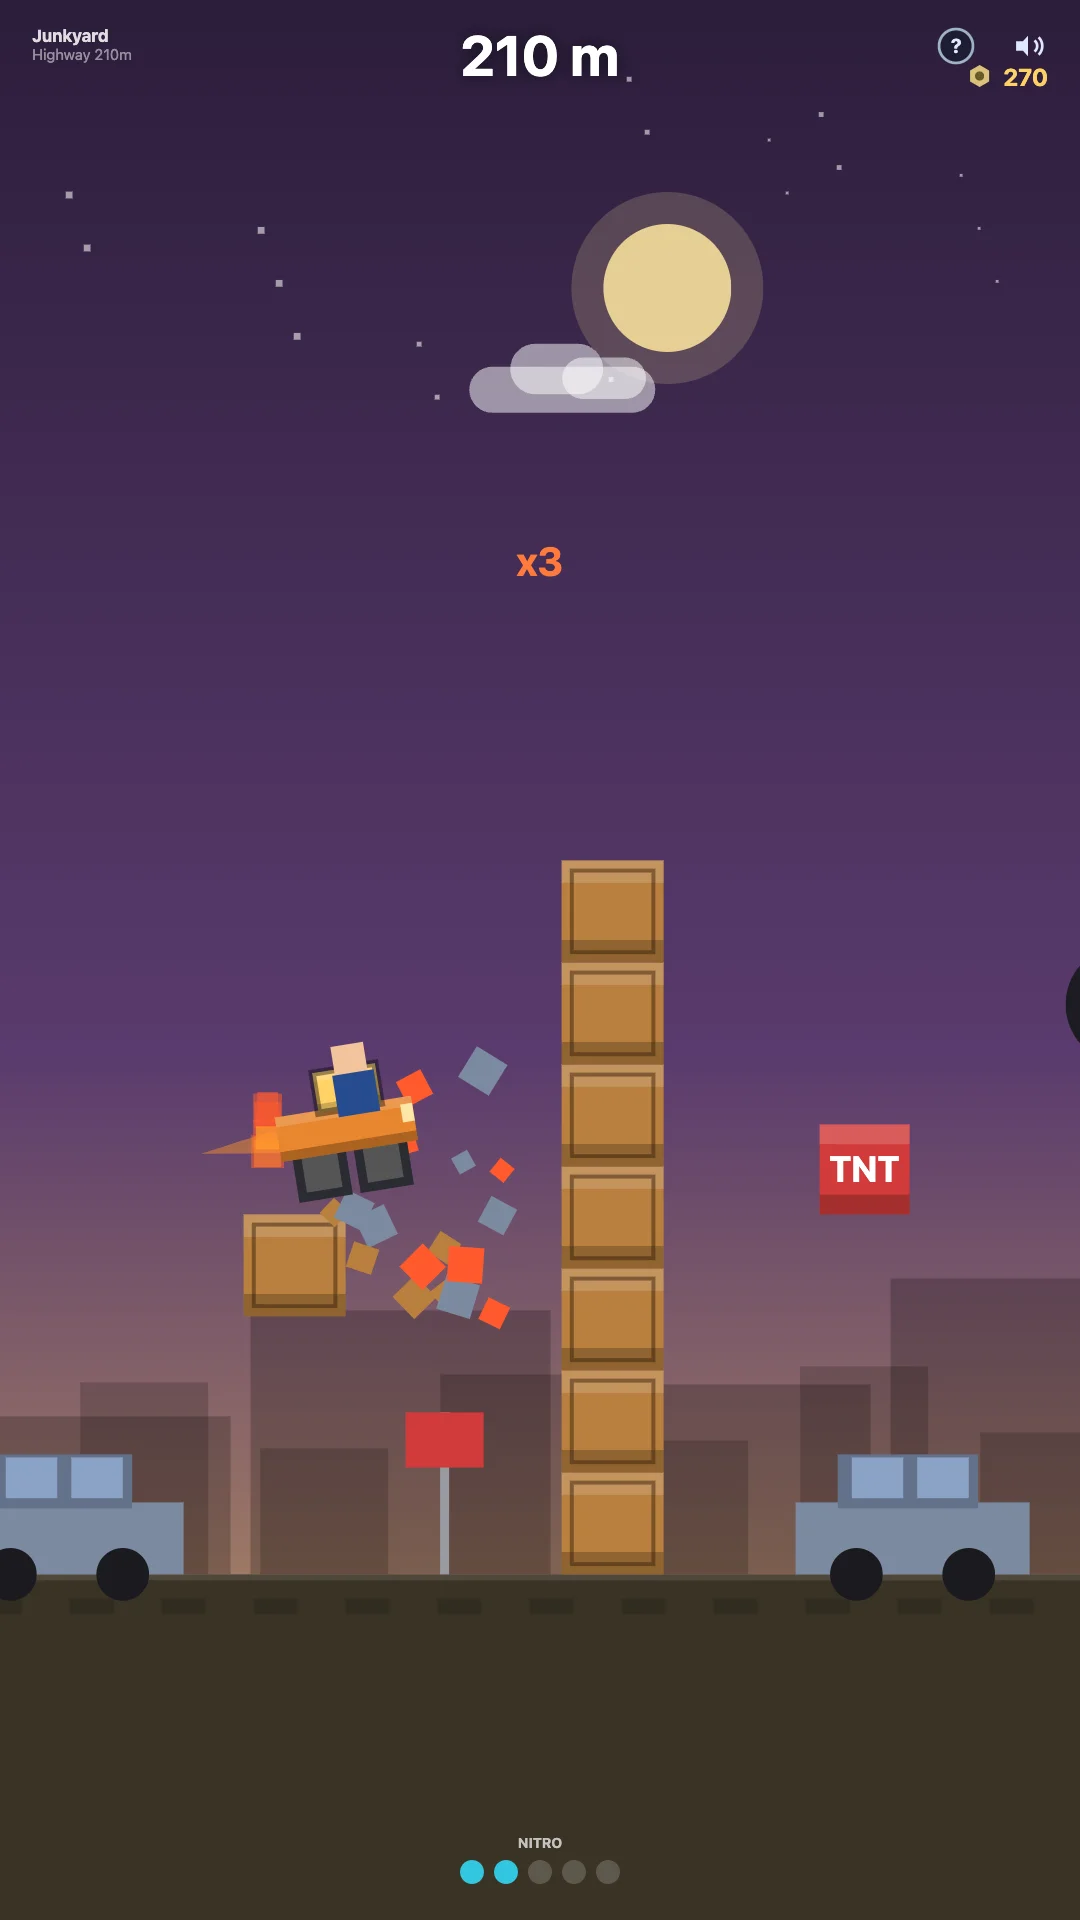
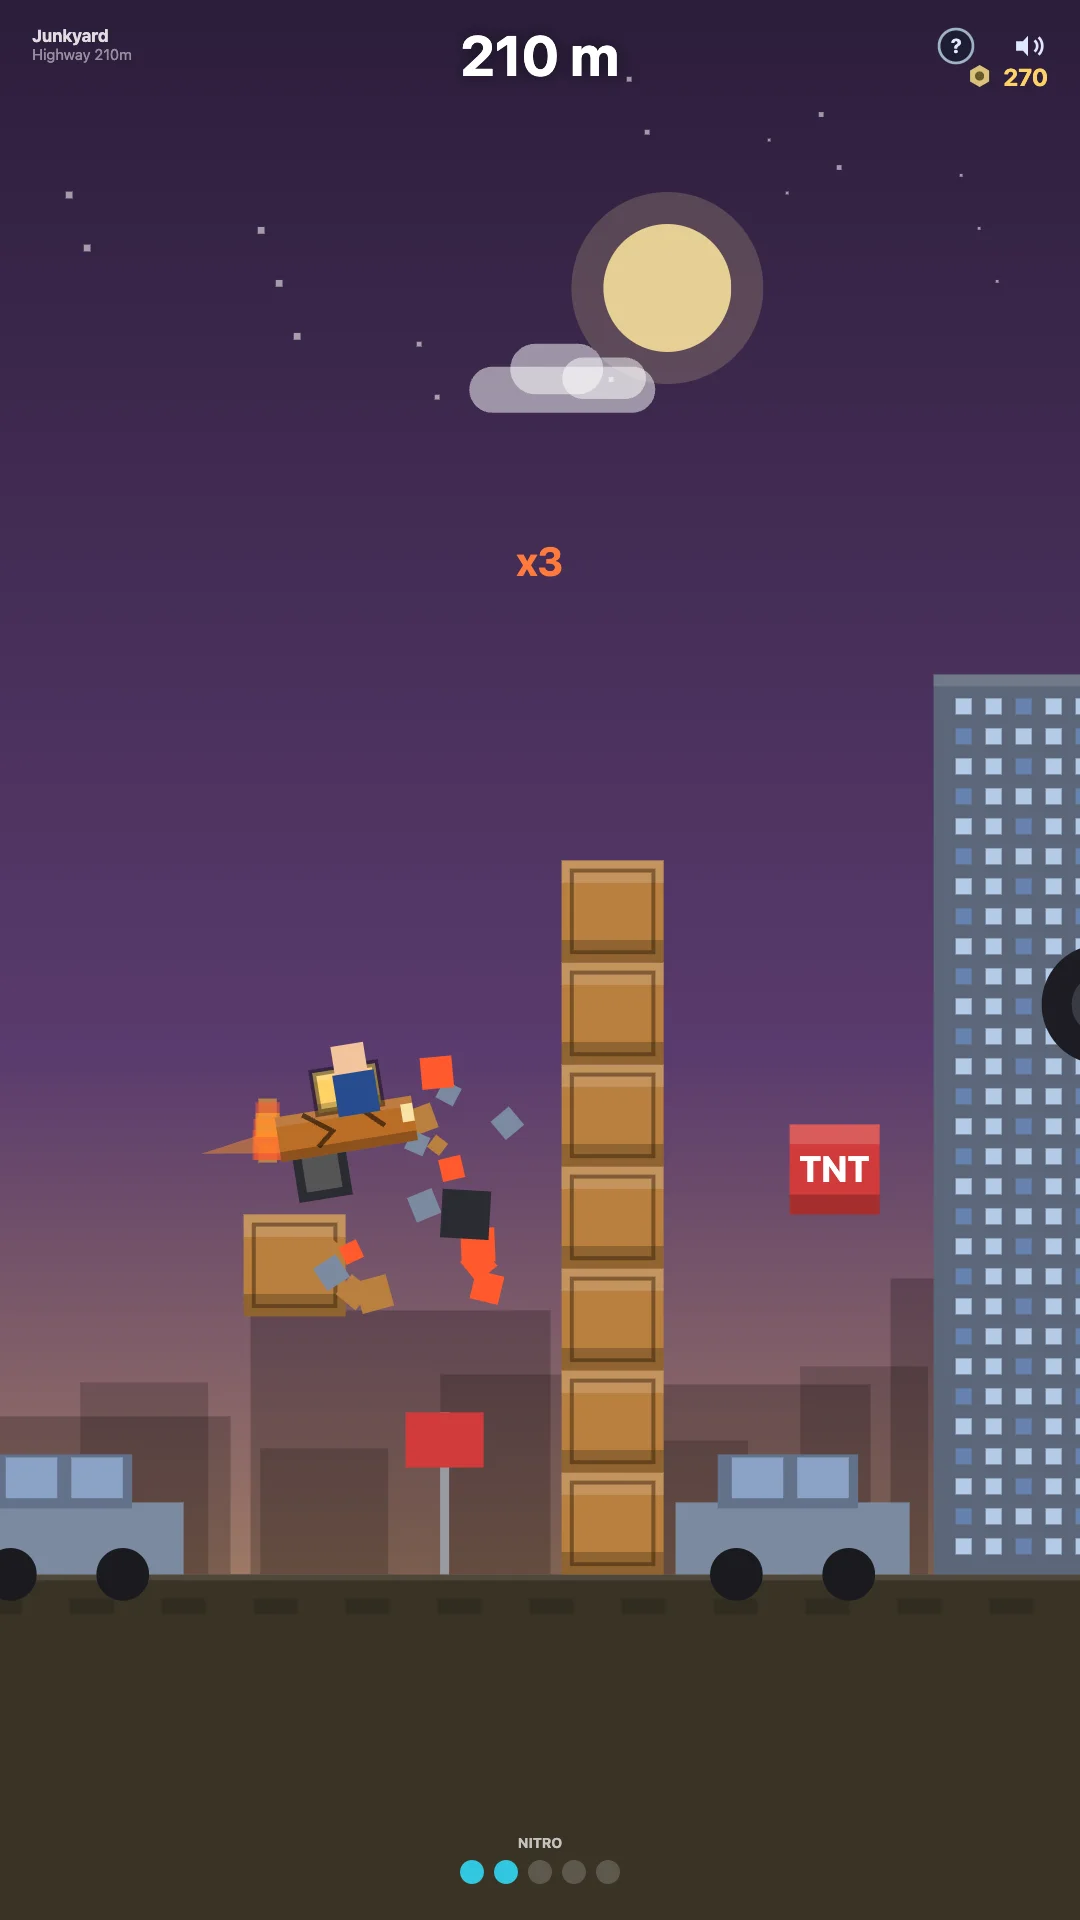
Crash Buggy: breakability + skyscraper air-obstacles + pricier upgrades
Player feedback ('make upgrades more expensive, more content, add skyscrapers
in the air that slow down') + Tim's 'add breakability to the car':
- Buggy takes damage on big hits; wheels/cabin/driver detach + ragdoll, body
  cracks. Armor soaks damage; a wrecked buggy drags to a stop sooner.
- Car props shatter into chunky cabin/body/wheel pieces + glass.
- New 'tower' air-obstacle: tall skyscrapers rising into the flight path that
  slow you hard (smash through, or nitro/ramp over). Denser in City/Sky.
- Upgrade costs raised ~35%.

Changed region(s): [[0.6111, 0.3438, 1.0, 0.8438], [0.2139, 0.5312, 0.4889, 0.6875]]

diff --git a/games/crash_buggy/index.html b/games/crash_buggy/index.html
@@ -31,7 +31,7 @@ var STRINGS = {
     newBest: 'NEW BEST!', daily: 'DAILY', dailyReady: 'FREE SCRAP', dailyDone: 'come back tomorrow',
     locked: 'LOCKED', unlockIn: 'unlock at', equipped: 'EQUIPPED', equip: 'EQUIP', maxed: 'MAX',
     holdRev: 'Hold to rev, release to LAUNCH', tapNitro: 'Tap to NITRO-boost!',
-    smashAll: 'Smash everything for scrap!', nitro: 'NITRO', boost: 'BOOST!',
+    smashAll: 'Smash everything for scrap!', nitro: 'NITRO', boost: 'BOOST!', wrecked: 'WRECKED!',
     newRide: 'NEW RIDE UNLOCKED!',
     up_engine: 'Engine', up_nitro: 'Nitro', up_armor: 'Armor', up_wheels: 'Wheels', up_ramp: 'Ramp',
     veh_buggy: 'Junk Buggy', veh_muscle: 'Muscle Car', veh_truck: 'Monster Truck', veh_sled: 'Rocket Sled',
@@ -52,7 +52,7 @@ var STRINGS = {
     newBest: 'НОВЫЙ РЕКОРД!', daily: 'БОНУС', dailyReady: 'МЕТАЛЛ', dailyDone: 'заходи завтра',
     locked: 'ЗАКРЫТО', unlockIn: 'откроется на', equipped: 'ВЫБРАНО', equip: 'ВЫБРАТЬ', maxed: 'МАКС',
     holdRev: 'Держи для разгона, отпусти для ЗАПУСКА', tapNitro: 'Тапай для НИТРО!',
-    smashAll: 'Круши всё ради металла!', nitro: 'НИТРО', boost: 'БУСТ!',
+    smashAll: 'Круши всё ради металла!', nitro: 'НИТРО', boost: 'БУСТ!', wrecked: 'РАЗБИТ!',
     newRide: 'НОВАЯ ТАЧКА!',
     up_engine: 'Двигатель', up_nitro: 'Нитро', up_armor: 'Броня', up_wheels: 'Колёса', up_ramp: 'Трамплин',
     veh_buggy: 'Багги', veh_muscle: 'Маслкар', veh_truck: 'Монстр-Трак', veh_sled: 'Ракета',
@@ -112,11 +112,11 @@ function saveMeta() { try { localStorage.setItem('crash_buggy_meta_v1', JSON.str
 
 // ── UPGRADE + VEHICLE CONFIG ──────────────────────────────────────────────
 var UPGRADES = [
-  { key: 'engine', max: 8, base: 70,  growth: 1.5  },
-  { key: 'nitro',  max: 5, base: 100, growth: 1.62 },
-  { key: 'armor',  max: 6, base: 85,  growth: 1.55 },
-  { key: 'wheels', max: 6, base: 78,  growth: 1.5  },
-  { key: 'ramp',   max: 5, base: 115, growth: 1.6  },
+  { key: 'engine', max: 8, base: 95,  growth: 1.55 },
+  { key: 'nitro',  max: 5, base: 135, growth: 1.66 },
+  { key: 'armor',  max: 6, base: 115, growth: 1.6  },
+  { key: 'wheels', max: 6, base: 105, growth: 1.55 },
+  { key: 'ramp',   max: 5, base: 150, growth: 1.62 },
 ];
 function upCost(u) { return Math.floor(u.base * Math.pow(u.growth, meta.up[u.key])); }
 function upMaxed(u) { return meta.up[u.key] >= u.max; }
@@ -142,7 +142,8 @@ function statAngle() { return Math.min(1.18, LAUNCH_ANGLE + meta.up.ramp * 0.02)
 // ── GAME STATE ────────────────────────────────────────────────────────────
 var gs = 'MENU';             // MENU | PLAYING | GAMEOVER | GARAGE
 var phase = 'CHARGE';        // within PLAYING: CHARGE | FLIGHT | REST
-var buggy = { x: 0, y: 0, vx: 0, vy: 0, rot: 0, vr: 0, onGround: false, restT: 0 };
+var buggy = { x: 0, y: 0, vx: 0, vy: 0, rot: 0, vr: 0, onGround: false, restT: 0,
+  dmg: 0, parts: { wheelF: true, wheelR: true, cabin: true, driver: true } };
 var startX = 0, dist = 0, runScrap = 0, smashes = 0, combo = 0, comboT = 0;
 var nitro = 0, zoneIdx = 0, prevZoneIdx = 0;
 var charge = 0, chargeDir = 1, held = false;
@@ -178,6 +179,7 @@ function hit(b, x, y) { return x >= b.x && x <= b.x + b.w && y >= b.y && y <= b.
 function resetRun() {
   startX = 200; buggy.x = startX; buggy.y = -BUGGY_H / 2; buggy.vx = 0; buggy.vy = 0;
   buggy.rot = 0; buggy.vr = 0; buggy.onGround = true; buggy.restT = 0;
+  buggy.dmg = 0; buggy.parts = { wheelF: true, wheelR: true, cabin: true, driver: true };
   dist = 0; runScrap = 0; smashes = 0; combo = 0; comboT = 0;
   nitro = statNitroMax(); zoneIdx = 0; prevZoneIdx = 0;
   charge = 0; chargeDir = 1; held = false; bannerT = 0; launchFlash = 0;
@@ -258,6 +260,13 @@ function generateAhead() {
   if (props.length > 240) props = props.filter(function (p) { return p.x + (p.w || 40) > cullX; });
 }
 function spawnCluster(x, z) {
+  // AIR OBSTACLE: a tall skyscraper rising into the flight path (Highway onward,
+  // denser in City/Sky). Hitting it slows you hard; smash through or clear the top.
+  if (z >= 1 && Math.random() < 0.13 + z * 0.03) {
+    var th = R(170, 200 + z * 55);
+    pushProp('tower', x, -th, R(58, 84), th, z >= 3 ? 3 : 2, 12 + z * 2);
+    return;
+  }
   var roll = Math.random();
   if (roll < 0.10) { pushProp('boost', x, -14, 54, 14, 0, 4); return; }
   if (roll < 0.22) { pushProp('tnt', x, -30, 30, 30, 1, 9); return; }
@@ -295,6 +304,41 @@ function spawnPuff(x, y, n, col) {
   for (var i = 0; i < n; i++) debris.push({ x: x, y: y, vx: R(-120, -20), vy: R(-90, 30),
     size: R(6, 13), color: col, rot: 0, vr: 0, life: 0.6, flame: true });
 }
+// bigger, longer-lived chunk — a detached vehicle part or car-wreck piece
+function spawnPart(wx, wy, sz, color) {
+  debris.push({ x: wx, y: wy, vx: buggy.vx * 0.35 + R(-140, 160), vy: buggy.vy * 0.25 + R(-300, -60),
+    size: sz, color: color, rot: R(0, 6.28), vr: R(-13, 13), life: 2.4 });
+  if (debris.length > 300) debris.splice(0, debris.length - 300);
+}
+function spawnCarWreck(p) {
+  var cxp = p.x + p.w / 2;
+  spawnPart(cxp - p.w * 0.18, p.y, p.w * 0.5, '#62718a');              // cabin chunk
+  spawnPart(cxp + p.w * 0.18, p.y + p.h * 0.4, p.w * 0.5, '#7b8aa0');  // body chunk
+  spawnPart(cxp - p.w * 0.26, p.y + p.h * 0.8, p.h * 0.42, '#1a1a20'); // wheel
+  spawnPart(cxp + p.w * 0.26, p.y + p.h * 0.8, p.h * 0.42, '#1a1a20'); // wheel
+  spawnDebris(p.x, p.y, p.w, p.h, '#7b8aa0', 8);
+  spawnDebris(p.x + p.w * 0.2, p.y, p.w * 0.4, p.h * 0.4, 'rgba(190,215,255,0.7)', 5); // glass
+}
+// ── BUGGY DAMAGE / BREAKABILITY ────────────────────────────────────────────
+// Big impacts crack the buggy and pop parts off (wheels -> cabin -> driver eject).
+// Armor cushions it; a heavily-damaged buggy rolls to a stop sooner. Cosmetic
+// spectacle that never ends a run early (the chassis keeps sliding).
+function ejectPart(offX, offY, sz, color) { spawnPart(buggy.x + offX, buggy.y + offY, sz, color); }
+function damageBuggy(amount) {
+  amount = amount / (1 + statArmor() * 0.4);          // armor soaks damage
+  buggy.dmg = Math.min(1.3, buggy.dmg + amount);
+  var v = curVeh();
+  if (buggy.parts.wheelF && buggy.dmg > 0.32) { buggy.parts.wheelF = false; ejectPart(-BUGGY_W * 0.42, BUGGY_H * 0.2, WHEEL_R * 1.8, v.wheel); sfxRL('hit', 80); }
+  if (buggy.parts.wheelR && buggy.dmg > 0.58) { buggy.parts.wheelR = false; ejectPart(BUGGY_W * 0.42, BUGGY_H * 0.2, WHEEL_R * 1.8, v.wheel); sfxRL('hit', 80); }
+  if (buggy.parts.cabin && buggy.dmg > 0.74) { buggy.parts.cabin = false; ejectPart(-BUGGY_W * 0.05, -BUGGY_H * 0.5, BUGGY_W * 0.42, v.accent); GF.setShake(0.4); sfxRL('hurt', 90); }
+  if (buggy.parts.driver && buggy.dmg > 0.95) {
+    buggy.parts.driver = false;
+    ejectPart(0, -BUGGY_H * 0.9, 11, '#f2c39b');      // head
+    ejectPart(0, -BUGGY_H * 0.6, 14, '#274b8f');      // torso
+    GF.setShake(0.5); sfxRL('hurt', 90);
+    GF.spawnFloat(sx(buggy.x), sy(buggy.y) - 30 * GF.S, GF.t('wrecked'), '#ff7a3c');
+  }
+}
 
 // ── SMASH HANDLING ────────────────────────────────────────────────────────
 function comboMult() { return Math.min(9, 1 + Math.floor(combo / 2)); }
@@ -313,23 +357,33 @@ function handleSmash(p) {
   var mult = comboMult();
   var gain = Math.round(p.scrap * (1 + (mult - 1) * 0.35));
   runScrap += gain;
-  var armor = statArmor(), col, n = 9;
+  var armor = statArmor(), col, n = 9, skipDebris = false;
   if (p.type === 'crate') { col = '#b9803f'; buggy.vx *= 0.99; }
   else if (p.type === 'barrel') { col = '#5a7d3a'; buggy.vx += 50; GF.setShake(0.3); sfxRL('hit', 50); }
   else if (p.type === 'tire') { col = '#1c1c22'; buggy.vy -= 300; buggy.onGround = false; buggy.restT = 0; sfxRL('merge', 50); }
   else if (p.type === 'cone') { col = '#ff8a3c'; n = 6; }
   else if (p.type === 'sign') { col = '#d0d6df'; n = 6; }
   else if (p.type === 'car') {
-    col = '#7b8aa0'; n = 16;
-    if (armor < p.mass) { buggy.vx *= 0.62; buggy.vr += R(-6, 6); GF.setShake(0.6); sfxRL('hurt', 60); }
-    else { buggy.vx *= 0.92; GF.setShake(0.4); sfxRL('hit', 60); }
+    col = '#7b8aa0'; skipDebris = true; spawnCarWreck(p);   // breaks into chunky pieces
+    if (armor < p.mass) { buggy.vx *= 0.62; buggy.vr += R(-6, 6); GF.setShake(0.6); sfxRL('hurt', 60); damageBuggy(0.42); }
+    else { buggy.vx *= 0.9; GF.setShake(0.4); sfxRL('hit', 60); damageBuggy(0.16); }
+  } else if (p.type === 'tower') {
+    // AIR OBSTACLE: a tall skyscraper that SLOWS you hard (smash through it, or
+    // nitro / a higher ramp to clear its top). Showers concrete + glass.
+    col = '#9aa7bd'; skipDebris = true;
+    buggy.vx *= (armor < p.mass ? 0.5 : 0.74); buggy.vr += R(-5, 5); buggy.restT = 0;
+    GF.setShake(0.7); GF.sfx('hit'); sfxRL('hurt', 70);
+    damageBuggy(armor < p.mass ? 0.34 : 0.14);
+    spawnDebris(p.x, p.y, p.w, Math.min(p.h, 200), '#9aa7bd', 16);
+    spawnDebris(p.x + 4, p.y + 10, p.w - 8, Math.min(p.h, 170), 'rgba(150,200,255,0.6)', 11);
   } else if (p.type === 'tnt') {
     col = '#ff5a2e'; n = 14;
     buggy.vx += 240; buggy.vy -= 200; buggy.onGround = false; buggy.restT = 0;
     GF.setShake(0.85); GF.sfx('hit'); GF.sfx('reward');
     GF.spawnParticles(sx(p.x + p.w / 2), sy(p.y + p.h / 2), '#ffb02e', 22);
+    damageBuggy(0.28);
   }
-  spawnDebris(p.x, p.y, p.w, p.h, col, n);
+  if (!skipDebris) spawnDebris(p.x, p.y, p.w, p.h, col, n);
   if (p.type !== 'cone' && p.type !== 'sign') sfxRL('hit', 45); else sfxRL('tap', 40);
   GF.spawnFloat(sx(p.x + p.w / 2), sy(p.y) - 8 * GF.S, '+' + gain, mult >= 3 ? '#ffd166' : '#fff');
 }
@@ -383,15 +437,18 @@ function update(dt) {
   if (bottom >= 0) {
     buggy.y = -BUGGY_H / 2;
     if (buggy.vy > 160) {
-      buggy.vy = -buggy.vy * statBounce();
+      var impact = buggy.vy;
+      buggy.vy = -impact * statBounce();
       buggy.vx *= GROUND_FRICTION;
       buggy.onGround = false;
-      GF.setShake(Math.min(0.5, buggy.vy * -0.0009 + 0.15));
+      GF.setShake(Math.min(0.6, impact * 0.0009 + 0.15));
       sfxRL('hit', 90);
       spawnPuff(buggy.x - 6, 4, 7, '#caa46a');
+      if (impact > 520) damageBuggy(Math.min(0.3, (impact - 520) * 0.0006));   // hard slam cracks the frame
     } else {
       buggy.vy = 0; buggy.onGround = true;
-      buggy.vx *= Math.pow(statRollKeep(), dt * 60);
+      // a wrecked buggy loses grip and drags to a stop sooner (Armor keeps you rolling)
+      buggy.vx *= Math.pow(Math.max(0.55, statRollKeep() - buggy.dmg * 0.06), dt * 60);
     }
   } else { buggy.onGround = false; }
 
@@ -554,6 +611,22 @@ function drawProps(c) {
     else if (p.type === 'car') { drawCarProp(c, X, Y, Wd, Hd); }
     else if (p.type === 'tnt') { voxBox(c, X, Y, Wd, Hd, '#d23b3b'); c.fillStyle = '#fff'; c.font = 'bold ' + (Hd * 0.4) + 'px Inter, system-ui, sans-serif'; c.textAlign = 'center'; c.textBaseline = 'middle'; c.fillText(GF.t('tntLabel'), X + Wd / 2, Y + Hd / 2 + 1); c.textBaseline = 'alphabetic'; }
     else if (p.type === 'boost') { var by = sy(-14); c.fillStyle = '#7CFC9A'; c.fillRect(X, by, Wd, 14 * scl); c.fillStyle = '#1d6b3a'; for (var a = 0; a < 3; a++) { c.beginPath(); c.moveTo(X + Wd * (0.2 + a * 0.28), by + 12 * scl); c.lineTo(X + Wd * (0.32 + a * 0.28), by + 2 * scl); c.lineTo(X + Wd * (0.44 + a * 0.28), by + 12 * scl); c.closePath(); c.fill(); } }
+    else if (p.type === 'tower') { drawTowerProp(c, X, Y, Wd, Hd, p); }
+  }
+}
+function drawTowerProp(c, X, Y, Wd, Hd, p) {
+  var S = GF.S;
+  c.fillStyle = '#5b6678'; c.fillRect(X, Y, Wd, Hd);
+  c.fillStyle = 'rgba(255,255,255,0.13)'; c.fillRect(X, Y, Wd, Math.max(2, 6 * S));          // roof cap
+  c.fillStyle = 'rgba(0,0,0,0.25)'; c.fillRect(X + Wd - 6 * S, Y, 6 * S, Hd);                 // right-edge shade
+  var ww = Math.max(4, 8 * S), wgap = Math.max(4, 7 * S);
+  var cols = Math.max(2, Math.floor((Wd - wgap) / (ww + wgap)));
+  var x0 = X + (Wd - (cols * (ww + wgap) - wgap)) / 2, base = (p.x | 0);
+  for (var wy = Y + 12 * S; wy < Y + Hd - ww; wy += ww + wgap) {
+    for (var wc = 0; wc < cols; wc++) {
+      c.fillStyle = ((((wy | 0) * 3 + wc * 7 + base) % 4) === 0) ? 'rgba(120,170,255,0.4)' : 'rgba(200,225,255,0.82)';
+      c.fillRect(x0 + wc * (ww + wgap), wy, ww, ww);
+    }
   }
 }
 function drawCarProp(c, X, Y, Wd, Hd) {
@@ -580,16 +653,32 @@ function drawBuggy(c) {
   c.save(); c.translate(X, Y); c.rotate(buggy.rot);
   var u = scl, w = BUGGY_W * u, h = BUGGY_H * u;
   if (launchFlash > 0) { c.fillStyle = 'rgba(255,150,40,' + (launchFlash) + ')'; c.beginPath(); c.moveTo(-w / 2, -2 * u); c.lineTo(-w / 2 - 26 * u, 2 * u); c.lineTo(-w / 2, 6 * u); c.closePath(); c.fill(); }
+  // wheels — each can be knocked off
   c.fillStyle = v.wheel;
-  c.fillRect(-w * 0.42, h * 0.18, WHEEL_R * 2 * u, WHEEL_R * 2 * u);
-  c.fillRect(w * 0.42 - WHEEL_R * 2 * u, h * 0.18, WHEEL_R * 2 * u, WHEEL_R * 2 * u);
-  c.fillStyle = '#555'; c.fillRect(-w * 0.42 + 3 * u, h * 0.18 + 3 * u, (WHEEL_R * 2 - 6) * u, (WHEEL_R * 2 - 6) * u); c.fillRect(w * 0.42 - (WHEEL_R * 2 - 3) * u, h * 0.18 + 3 * u, (WHEEL_R * 2 - 6) * u, (WHEEL_R * 2 - 6) * u);
+  if (buggy.parts.wheelR) { c.fillRect(-w * 0.42, h * 0.18, WHEEL_R * 2 * u, WHEEL_R * 2 * u); c.fillStyle = '#555'; c.fillRect(-w * 0.42 + 3 * u, h * 0.18 + 3 * u, (WHEEL_R * 2 - 6) * u, (WHEEL_R * 2 - 6) * u); c.fillStyle = v.wheel; }
+  if (buggy.parts.wheelF) { c.fillRect(w * 0.42 - WHEEL_R * 2 * u, h * 0.18, WHEEL_R * 2 * u, WHEEL_R * 2 * u); c.fillStyle = '#555'; c.fillRect(w * 0.42 - (WHEEL_R * 2 - 3) * u, h * 0.18 + 3 * u, (WHEEL_R * 2 - 6) * u, (WHEEL_R * 2 - 6) * u); }
+  // chassis
   voxBox(c, -w / 2, -h * 0.2, w, h * 0.5, v.body, 0.26);
-  voxBox(c, -w * 0.18, -h * 0.62, w * 0.46, h * 0.45, v.accent, 0.2);
-  c.strokeStyle = 'rgba(0,0,0,0.4)'; c.lineWidth = 2.4 * u; c.strokeRect(-w * 0.18, -h * 0.62, w * 0.46, h * 0.45);
-  var bob = Math.sin(buggy.x * 0.05) * 1.4 * u;
-  c.fillStyle = '#f2c39b'; c.fillRect(-w * 0.02, -h * 0.92 + bob, 11 * u, 11 * u);
-  c.fillStyle = '#274b8f'; c.fillRect(-w * 0.04, -h * 0.6 + bob, 14 * u, 14 * u);
+  // damage — darken + crack lines as it takes a beating
+  if (buggy.dmg > 0.12) {
+    c.fillStyle = 'rgba(20,14,8,' + Math.min(0.5, buggy.dmg * 0.42) + ')'; c.fillRect(-w / 2, -h * 0.2, w, h * 0.5);
+    if (buggy.dmg > 0.4) {
+      c.strokeStyle = 'rgba(0,0,0,0.55)'; c.lineWidth = 1.6 * u; c.beginPath();
+      c.moveTo(-w * 0.3, -h * 0.18); c.lineTo(-w * 0.1, h * 0.05); c.lineTo(-w * 0.22, h * 0.2);
+      c.moveTo(w * 0.12, -h * 0.15); c.lineTo(w * 0.28, h * 0.08); c.stroke();
+    }
+  }
+  // cabin / roll cage — pops off
+  if (buggy.parts.cabin) {
+    voxBox(c, -w * 0.18, -h * 0.62, w * 0.46, h * 0.45, v.accent, 0.2);
+    c.strokeStyle = 'rgba(0,0,0,0.4)'; c.lineWidth = 2.4 * u; c.strokeRect(-w * 0.18, -h * 0.62, w * 0.46, h * 0.45);
+  }
+  // driver — ejects on a big crash
+  if (buggy.parts.driver) {
+    var bob = Math.sin(buggy.x * 0.05) * 1.4 * u;
+    c.fillStyle = '#f2c39b'; c.fillRect(-w * 0.02, -h * 0.92 + bob, 11 * u, 11 * u);
+    c.fillStyle = '#274b8f'; c.fillRect(-w * 0.04, -h * 0.6 + bob, 14 * u, 14 * u);
+  }
   c.fillStyle = 'rgba(255,240,180,0.9)'; c.fillRect(w / 2 - 4 * u, -h * 0.12, 4 * u, 6 * u);
   c.restore();
 }
@@ -962,17 +1051,20 @@ window._setupForScreenshot = function (level) {
   dist = 140 + lv * 70; zoneIdx = zoneOf(dist); prevZoneIdx = zoneIdx;
   buggy.x = startX + dist * PX_PER_M; buggy.y = -150; buggy.vx = 620; buggy.vy = -30;
   buggy.onGround = false; buggy.rot = -0.16;
+  buggy.dmg = 0.5; buggy.parts.wheelF = false;   // battle-damaged: showcases breakability
   props = []; var bx = buggy.x;
   // a tall crate column the buggy is plowing through — fills the frame vertically
   for (var ci = 0; ci < 7; ci++) pushProp('crate', bx + 72, -34 - ci * 34, 34, 34, 1, 3);
+  // a skyscraper (air obstacle) rising into the flight path on the right
+  pushProp('tower', bx + 196, -300, 70, 300, 3, 18);
   // mid + high props bracketing the buggy (no empty vertical gap)
-  pushProp('tnt',   bx + 158, -150, 30, 30, 1, 9);
-  pushProp('tire',  bx + 240, -210, 40, 40, 1, 5);
+  pushProp('tnt',   bx + 148, -150, 30, 30, 1, 9);
+  pushProp('tire',  bx + 232, -210, 40, 40, 1, 5);
   pushProp('crate', bx - 34,  -120, 34, 34, 1, 3);
   pushProp('sign',  bx + 28,  -54, 10, 54, 0, 2);
   // ground clutter so the lower band is full of props, not bare grass
-  pushProp('car',    bx + 150, -40, 78, 40, 3, 16);
-  pushProp('barrel', bx + 250, -40, 28, 40, 1, 6);
+  pushProp('car',    bx + 110, -40, 78, 40, 3, 16);
+  pushProp('barrel', bx + 256, -40, 28, 40, 1, 6);
   pushProp('cone',   bx + 320, -30, 24, 30, 0, 2); pushProp('cone', bx + 346, -30, 24, 30, 0, 2);
   pushProp('boost',  bx + 410, -14, 54, 14, 0, 4);
   pushProp('car',    bx - 132, -40, 78, 40, 3, 16);
@@ -981,6 +1073,7 @@ window._setupForScreenshot = function (level) {
   // explosion debris frozen mid-air around the buggy
   debris = [];
   for (var i = 0; i < 18; i++) spawnDebris(bx - 6, -170, 60, 90, i % 3 === 0 ? '#ff5a2e' : (i % 3 === 1 ? '#b9803f' : '#7b8aa0'), 1);
+  spawnPart(bx + 40, -120, WHEEL_R * 1.8, curVeh().wheel);   // the knocked-off front wheel tumbling
   for (var j = 0; j < 8; j++) spawnFlame(bx - 26, buggy.y + R(-8, 10));
   launchFlash = 0.45;
   // force a tight, ground-anchored framed camera, then FREEZE so the live loop
@@ -1030,6 +1123,7 @@ GF.init({
         bestDist: meta.bestDist, totalDist: meta.totalDist, runScrap: runScrap, scrap: meta.scrap,
         smashes: smashes, combo: combo, comboMult: comboMult(), nitro: nitro, nitroMax: statNitroMax(),
         zoneIdx: zoneIdx, zone: GF.t('z' + zoneIdx), props: props.length, debris: debris.length,
+        dmg: +buggy.dmg.toFixed(2), partsLeft: (buggy.parts.wheelF + buggy.parts.wheelR + buggy.parts.cabin + buggy.parts.driver),
         vehicle: meta.vehicle, up: meta.up, seenTut: seenTut,
         unlockedVehicles: VEHICLES.filter(vehUnlocked).map(function (v) { return v.id; }),
         GRAVITY: GRAVITY, LAUNCH_BASE: LAUNCH_BASE, LAUNCH_PER_LVL: LAUNCH_PER_LVL, NITRO_FORCE: NITRO_FORCE,